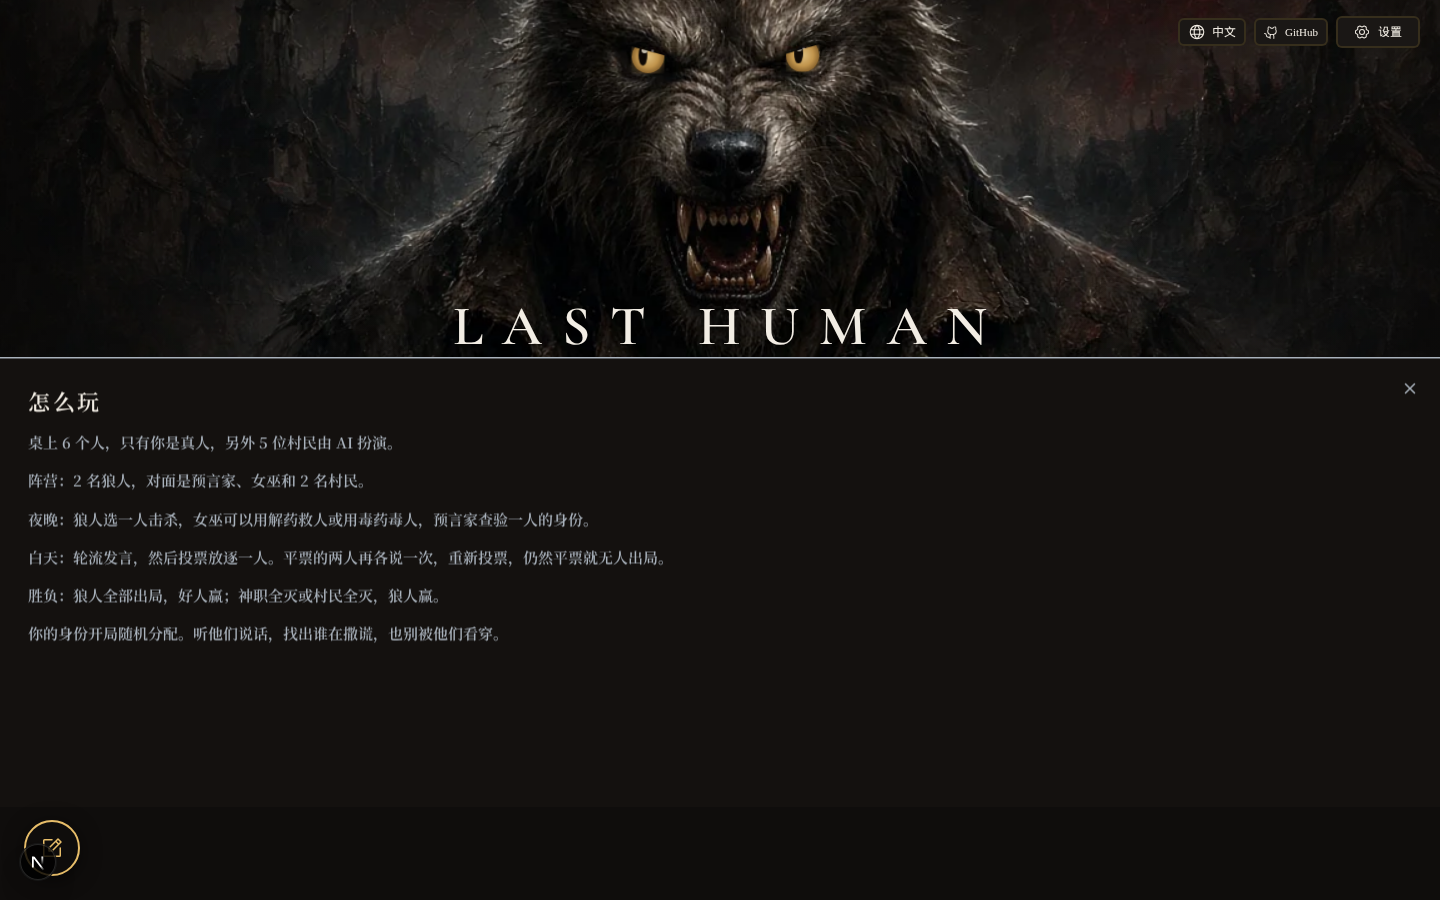
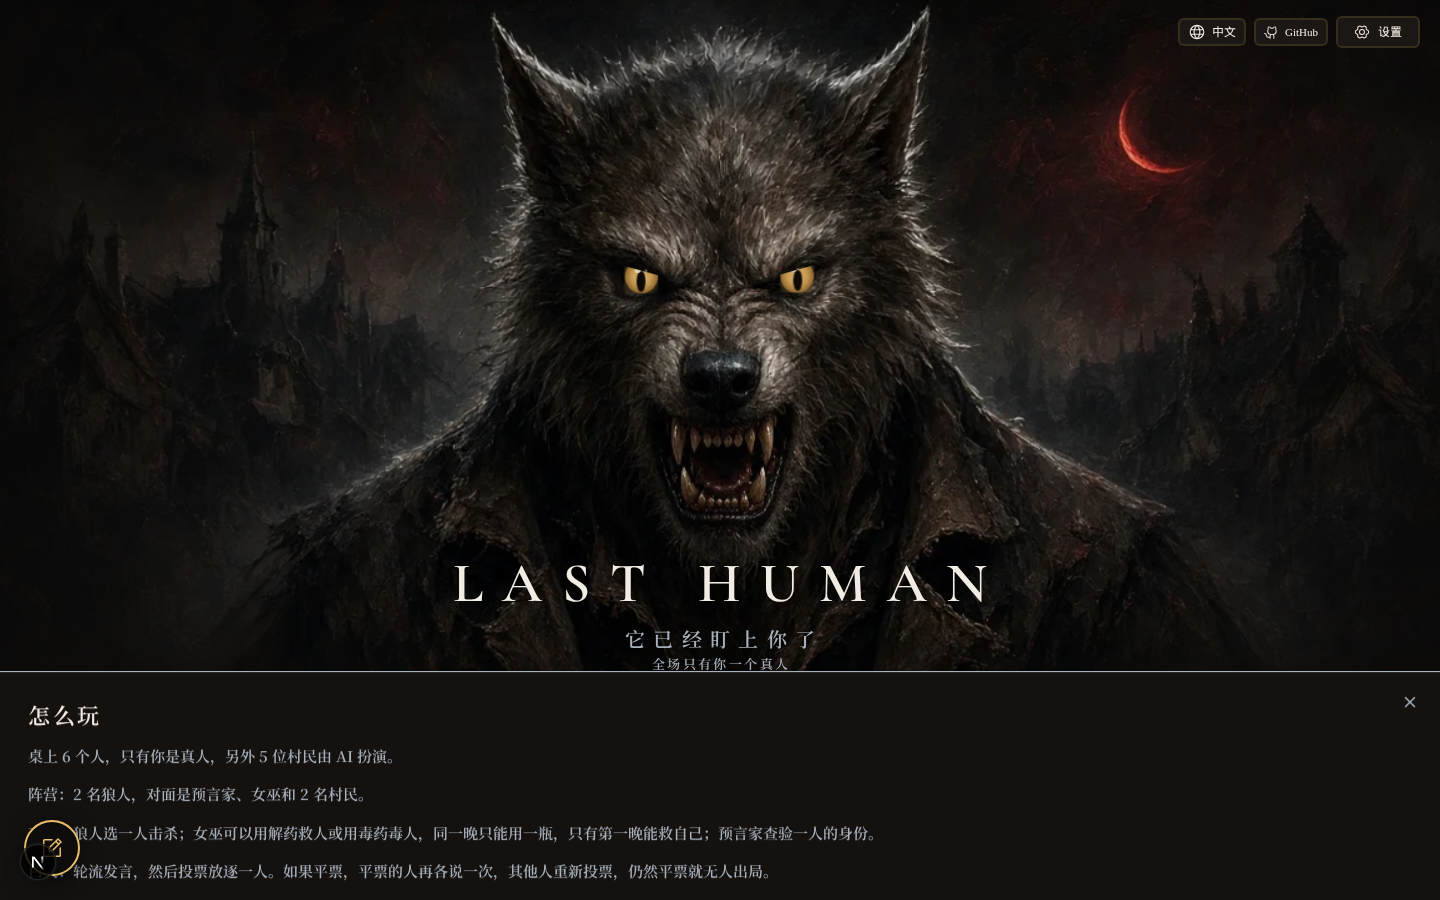
Match the how-to-play night and day lines to the product copy.
Night now says one potion per night and self-save only on night 1. A tie sends the tied players back to speak while everyone else revotes.

diff --git a/src/components/home/oath-card.test.ts b/src/components/home/oath-card.test.ts
@@ -59,8 +59,8 @@ test("怎么玩文案就是 6 人局规则，不是旧的 12 人说明", () => {
     [
       "桌上 6 个人，只有你是真人，另外 5 位村民由 AI 扮演。",
       "阵营：2 名狼人，对面是预言家、女巫和 2 名村民。",
-      "夜晚：狼人选一人击杀，女巫可以用解药救人或用毒药毒人，预言家查验一人的身份。",
-      "白天：轮流发言，然后投票放逐一人。平票的两人再各说一次，重新投票，仍然平票就无人出局。",
+      "夜晚：狼人选一人击杀；女巫可以用解药救人或用毒药毒人，同一晚只能用一瓶，只有第一晚能救自己；预言家查验一人的身份。",
+      "白天：轮流发言，然后投票放逐一人。如果平票，平票的人再各说一次，其他人重新投票，仍然平票就无人出局。",
       "胜负：狼人全部出局，好人赢；神职全灭或村民全灭，狼人赢。",
       "你的身份开局随机分配。听他们说话，找出谁在撒谎，也别被他们看穿。",
     ],
